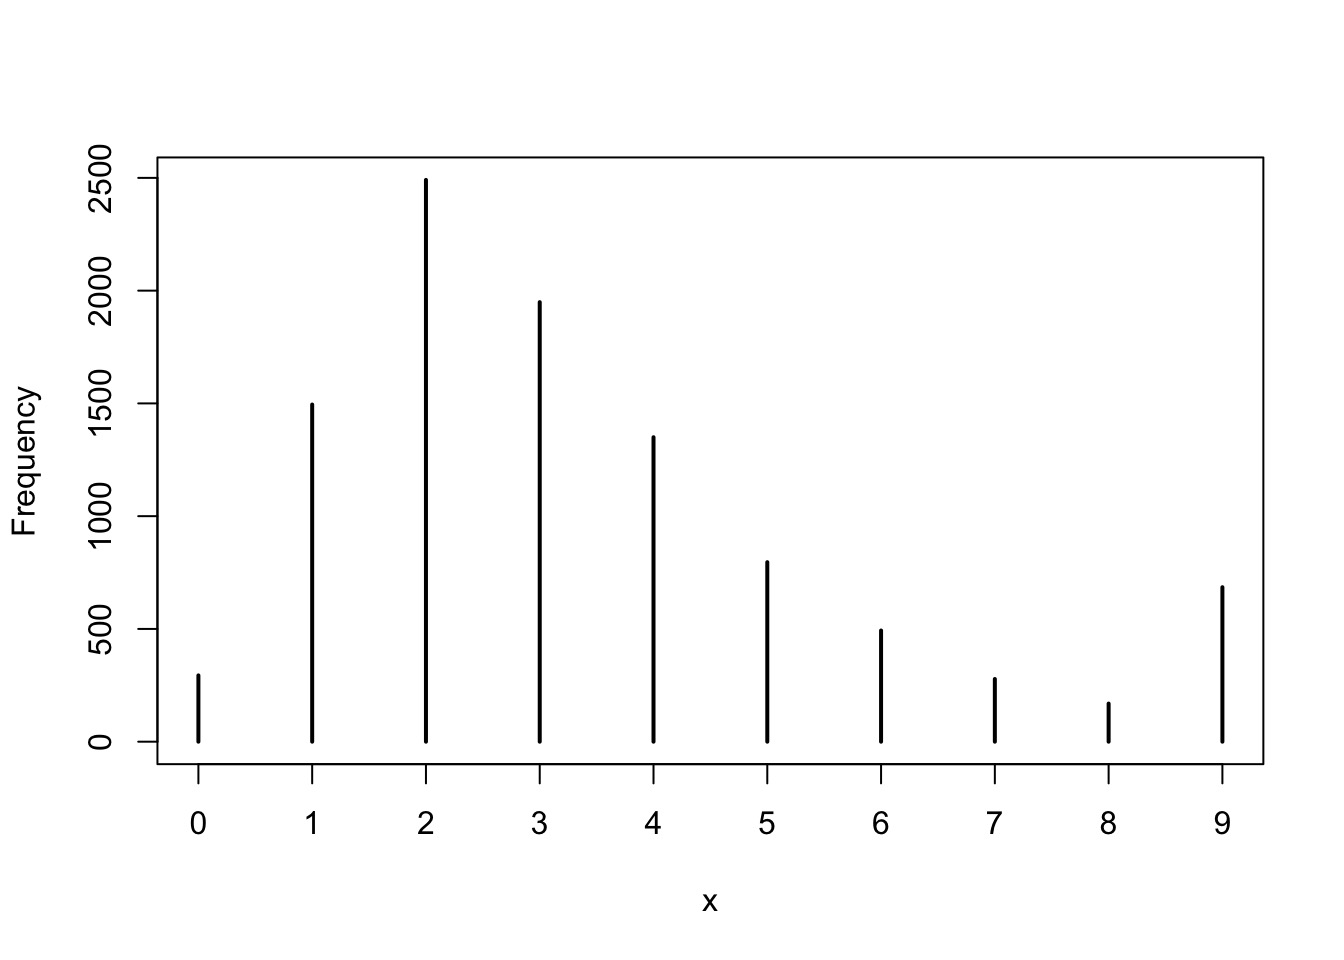
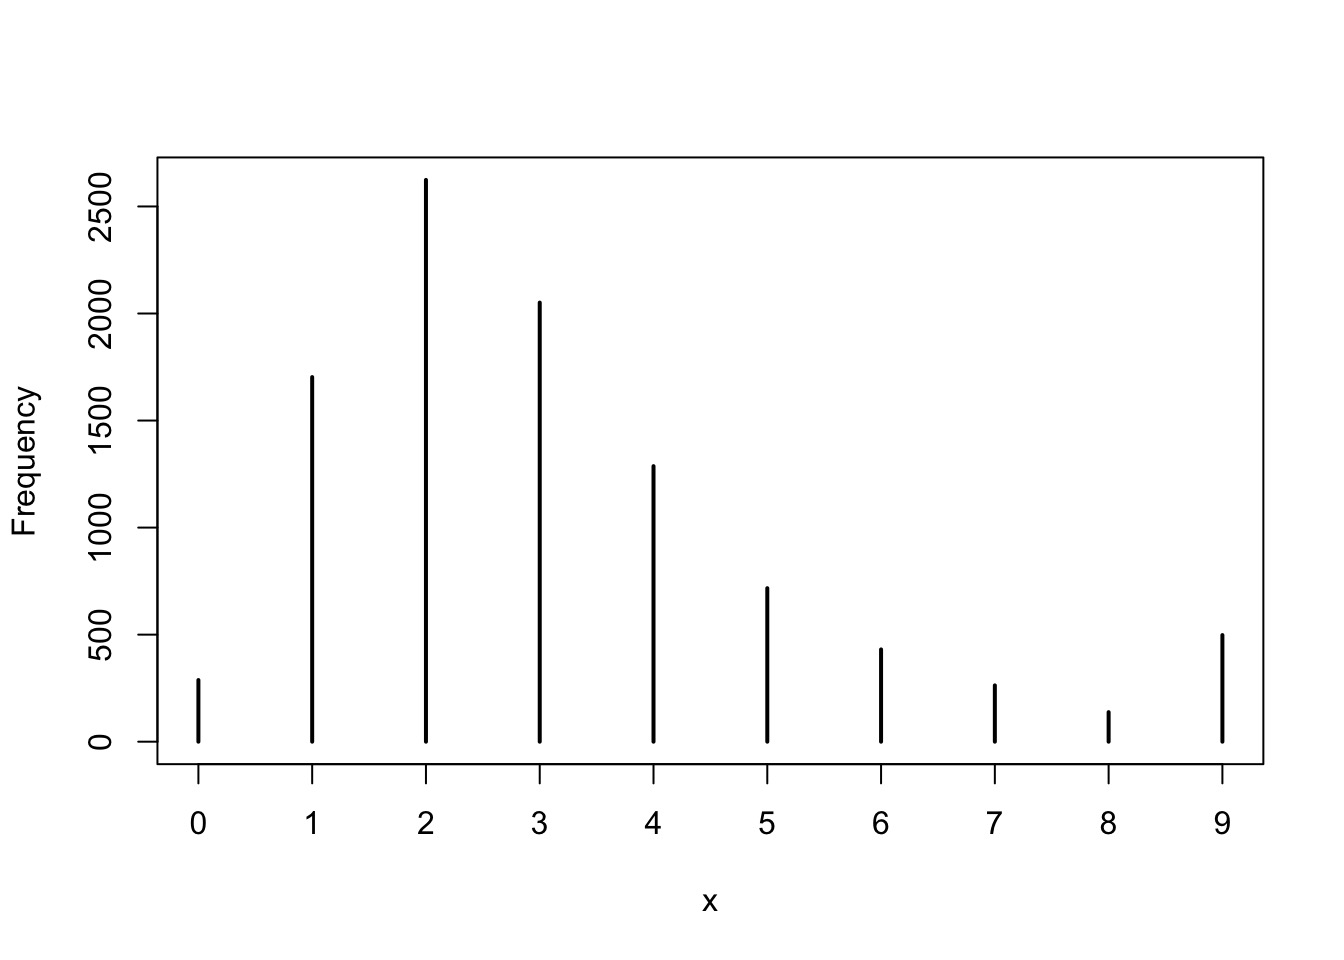
fixing lecture 12

diff --git a/lectures/12_posterior_sampling.html b/lectures/12_posterior_sampling.html
@@ -128,6 +128,21 @@ Sampling Your Posterior
 <div class="sourceCode"><pre class="sourceCode r"><code class="sourceCode r">water &lt;-<span class="st"> </span><span class="dv">6</span></code></pre></div>
 <p><img src="images/12/rcLnp89bi.jpg" style="width:50.0%" /></p>
 </section>
+<section id="grid-sampling" class="slide level2">
+<h1>Grid Sampling</h1>
+<div style="text-align:left">
+<p>In a data frame:<br />
+1. Use <code>seq</code> to come up with a set of possible probability values<br />
+<br />
+2. Add a column of priors. Make it flat, so they’re all 1, or get fancy.<br />
+<br />
+3. Calculate your likelihoods for each probability with size=9 and W=6<br />
+<br />
+4. Calculate your prior * likelihood<br />
+<br />
+5. Calculate your posterior, as the previous value divided by the sum of all prior*likelihoods</p>
+</div>
+</section>
 <section id="and-weve-made-a-grid-sample" class="slide level2">
 <h1>And we’ve made a grid sample</h1>
 <div class="sourceCode"><pre class="sourceCode r"><code class="sourceCode r"><span class="kw">library</span>(dplyr)
@@ -137,7 +152,9 @@ grid &lt;-<span class="st"> </span><span class="kw">data.frame</span>(<span clas
 <span class="st">  </span><span class="kw">mutate</span>(<span class="dt">likelihood =</span> 
            <span class="kw">dbinom</span>(water, <span class="dt">size =</span> <span class="dv">9</span>, <span class="dt">prob =</span> prob)) %&gt;%
 <span class="st">  </span>
-<span class="st">  </span><span class="kw">mutate</span>(<span class="dt">posterior =</span> likelihood*prob)</code></pre></div>
+<span class="st">  </span><span class="kw">mutate</span>(<span class="dt">posterior =</span> likelihood*prior) %&gt;%
+<span class="st">  </span>
+<span class="st">  </span><span class="kw">mutate</span>(<span class="dt">posterior =</span> posterior/<span class="kw">sum</span>(posterior))</code></pre></div>
 </section>
 <section id="sampling-from-your-posterior" class="slide level2">
 <h1>Sampling from your Posterior</h1>
@@ -198,11 +215,11 @@ Summarizing a Parameter with a Sample
 <p>We often look at the 95% interval</p>
 <div class="sourceCode"><pre class="sourceCode r"><code class="sourceCode r"><span class="kw">quantile</span>(samp, <span class="kw">c</span>(<span class="fl">0.025</span>, <span class="fl">0.975</span>))</code></pre></div>
 <pre><code> 2.5% 97.5% 
- 0.39  0.89 </code></pre>
+ 0.35  0.87 </code></pre>
 <p>But this is arbitrary (thanks, Fisher), and unstable. Lower intervals are more stable</p>
 <div class="sourceCode"><pre class="sourceCode r"><code class="sourceCode r"><span class="kw">quantile</span>(samp, <span class="kw">c</span>(<span class="fl">0.25</span>, <span class="fl">0.75</span>))</code></pre></div>
 <pre><code> 25%  75% 
-0.58 0.76 </code></pre>
+0.54 0.74 </code></pre>
 </div>
 </section>
 <section id="summarizing-uncertainty-50th-percentile-interval-1" class="slide level2">
@@ -219,10 +236,10 @@ Summarizing a Parameter with a Sample
 </ul>
 <div class="sourceCode"><pre class="sourceCode r"><code class="sourceCode r"><span class="kw">PI</span>(samp, <span class="fl">0.5</span>)</code></pre></div>
 <pre><code> 25%  75% 
-0.58 0.76 </code></pre>
+0.54 0.74 </code></pre>
 <div class="sourceCode"><pre class="sourceCode r"><code class="sourceCode r"><span class="kw">HPDI</span>(samp, <span class="fl">0.5</span>)</code></pre></div>
 <pre><code>|0.5 0.5| 
-0.56 0.74 </code></pre>
+0.53 0.72 </code></pre>
 </section>
 <section id="pi-v.-hpdi-for-a-skewed-distribution" class="slide level2">
 <h1>PI v. HPDI for a Skewed Distribution</h1>
@@ -230,10 +247,10 @@ Summarizing a Parameter with a Sample
 
 <span class="kw">PI</span>(samp_bad, <span class="fl">0.5</span>)</code></pre></div>
 <pre><code>      25%       75% 
-0.2396864 0.5410283 </code></pre>
+0.2438442 0.5469281 </code></pre>
 <div class="sourceCode"><pre class="sourceCode r"><code class="sourceCode r"><span class="kw">HPDI</span>(samp_bad, <span class="fl">0.5</span>)</code></pre></div>
 <pre><code>     |0.5      0.5| 
-0.1796986 0.4711888 </code></pre>
+0.2056297 0.5068549 </code></pre>
 </section>
 <section id="pi-v.-hpdi-1" class="slide level2">
 <h1>PI v. HPDI</h1>
@@ -261,12 +278,12 @@ Summarizing a Parameter with a Sample
 <section id="which-point-estimate-mean-median-mode" class="slide level2">
 <h1>Which Point Estimate: Mean, Median, Mode?</h1>
 <div class="sourceCode"><pre class="sourceCode r"><code class="sourceCode r"><span class="kw">mean</span>(samp)</code></pre></div>
-<pre><code>[1] 0.665593</code></pre>
+<pre><code>[1] 0.635969</code></pre>
 <div class="sourceCode"><pre class="sourceCode r"><code class="sourceCode r"><span class="kw">median</span>(samp)</code></pre></div>
-<pre><code>[1] 0.67</code></pre>
+<pre><code>[1] 0.64</code></pre>
 <div class="sourceCode"><pre class="sourceCode r"><code class="sourceCode r"><span class="co">#mode</span>
 samp[<span class="kw">which.max</span>(grid$posterior)]</code></pre></div>
-<pre><code>[1] 0.79</code></pre>
+<pre><code>[1] 0.33</code></pre>
 </section>
 <section id="applying-a-loss-function" class="slide level2">
 <h1>Applying a Loss Function!</h1>
@@ -294,7 +311,7 @@ samp[<span class="kw">which.max</span>(grid$posterior)]</code></pre></div>
 loss &lt;-<span class="st"> </span><span class="kw">sapply</span>(grid$prob, loss_fun)
 
 grid$prob[<span class="kw">which.min</span>(loss)]</code></pre></div>
-<pre><code>[1] 0.68</code></pre>
+<pre><code>[1] 0.64</code></pre>
 </section>
 <section id="choosing-a-loss-function" class="slide level2">
 <h1>Choosing a loss function</h1>
@@ -354,7 +371,7 @@ Using your samples for model checking
 <div class="sourceCode"><pre class="sourceCode r"><code class="sourceCode r"><span class="kw">table</span>(w)</code></pre></div>
 <pre><code>w
    0    1    2    3    4    5    6    7    8    9 
-  12   78  254  606 1093 1650 2113 2018 1539  637 </code></pre>
+  25  126  335  806 1265 1737 2051 1833 1305  517 </code></pre>
 </section>
 <section id="simulating-from-your-posterior-sample-1" class="slide level2">
 <h1>Simulating from your Posterior Sample</h1>
